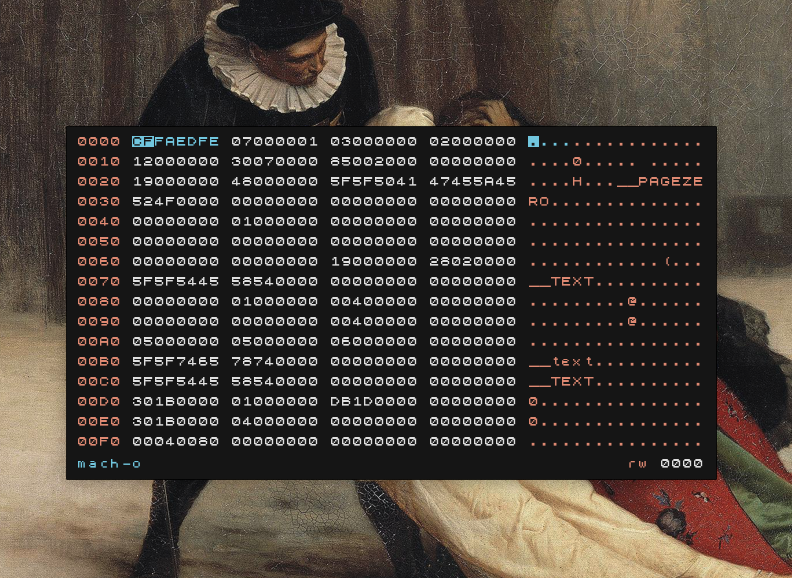
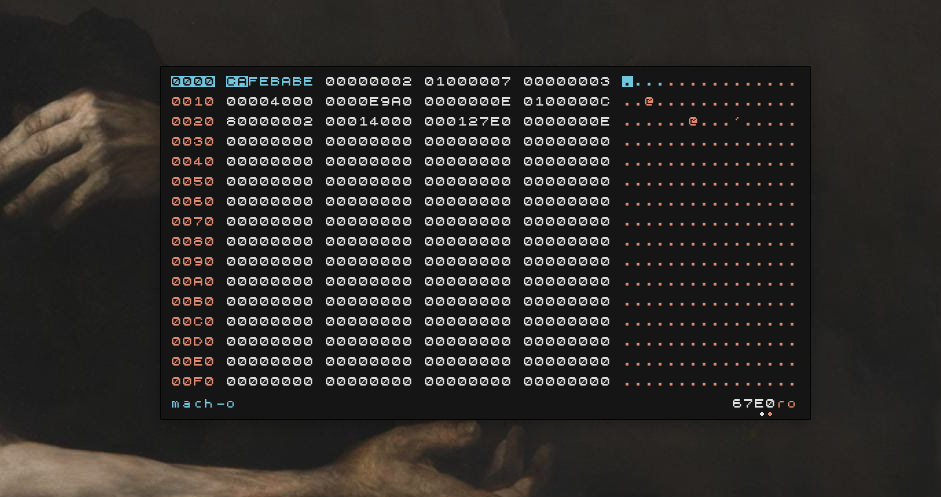
Layout work
* Offset column fix for > 0xffff representation
* Offset column now shows the current offset
* Info bar shows size of file and navigation dots

Misc:
* Added dmg magic
* Updated screenshot

diff --git a/main.c b/main.c
@@ -84,6 +84,7 @@ static void quit(int code, const char *m);
 static void copy_bytes(int size);
 static void mouse_set_cursor(int x, int y);
 static void grab_input(char c);
+static void draw_bitmap(char *s, int x, int y, unsigned int f);
 static void draw_background(void);
 static void draw_text(char *s, int x, int y, unsigned int color);
 static void draw_cursor(int x, int y, unsigned int b, unsigned int f, int size);
@@ -124,7 +125,9 @@ static long input_to_long(char *s) {
   return r;
 }
 static void toasciihex(unsigned char s, char *d) { snprintf(d, 3, "%02X", s); }
-static void off_toasciihex(int off, char *d) { snprintf(d, 5,"%04X", off); }
+static void off_toasciihex(int off, char *d) {
+  snprintf(d, 5,"%04X", off & 0xffff);
+}
 static char toprintable(char s) { return (s < 0x20 || s > 0x7e) ? '.' : s; }
 static void go(long off)
 {
@@ -315,17 +318,24 @@ static void draw_infobar(void)
 
 
   // print doc info
-  char offstr[5];
-  long offset = doc.fpos + win.curpos;
-  draw_text((doc.ro ? "ro" : "rw"), win.infobar.w-(win.font_width*6),
+  char fsize[5];
+  long nsize = doc.fsize;
+  draw_text((doc.ro ? "ro" : "rw"), win.infobar.w-win.font_width,
     win.infobar.y, theme.ngcolor);
-  off_toasciihex(offset, offstr);
-  draw_text(offstr, win.infobar.w-(win.font_width*3), win.infobar.y,
+  off_toasciihex(nsize, fsize);
+  draw_text(fsize, win.infobar.w - win.font_width*5, win.infobar.y,
     theme.fgcolor);
-  for (int i = 0;offset > 0xffff; offset -= 0xffff, i++) {
+  for (int i = 0;nsize > 0xffff; nsize -= 0xffff, i++) {
+    int x = win.infobar.x + win.infobar.w - win.font_width - sizeof(dot)*i;
+    if (x < win.font_width)
+      break;
     draw_bitmap(dot,
-      win.infobar.x + win.infobar.w - win.font_width - sizeof(dot)*i,
-      win.infobar.y + win.font_width, theme.ngcolor);
+      win.infobar.x + win.infobar.w - win.font_width*3 - sizeof(dot)*i,
+      win.infobar.y + win.font_width,
+      (
+        (nsize == doc.fsize && win.curpos == 0) ||
+        doc.fpos + win.curpos > 0xffff * i
+      ) ? theme.ngcolor : theme.fgcolor);
   }
 }
 
@@ -340,7 +350,6 @@ static void draw_offsetcol(void)
   long cpos = doc.fpos + win.curpos;
   for (int col = 0;pos != posend; col++, pos+=(win.colsize)) {
     char offstr[5];
-    off_toasciihex(pos, offstr);
 
     if (col > 0) posy += win.font_height * 2;
     if (cpos-(cpos%win.colsize) == pos) {
@@ -350,8 +359,10 @@ static void draw_offsetcol(void)
       } else {
         draw_cursor(posx, posy-1, theme.ngcolor, theme.bgcolor, 4);
       }
+      off_toasciihex(doc.fpos + win.curpos, offstr);
       draw_text(offstr, posx, posy, theme.bgcolor);
     } else {
+      off_toasciihex(pos, offstr);
       draw_text(offstr, posx, posy, theme.ngcolor);
     }
   }

diff --git a/magic.h b/magic.h
@@ -73,6 +73,7 @@ static magic magics[] = {
   {"mach-o", "\xFE\xED\xFA\xCF", NULL, 4, 0, 0x1000},
   {"flac","\x66\x4C\x61\x43", NULL, 4, 0, 0},
   {"dmg", "koly", NULL, 4, 0, 0},
+  {"dmg", "\x78\x01\xED\xD0", NULL, 4, 0, 0},
   {"pa30", "\x50\x41\x33\x30", NULL, 4, 0, 0},
   {"pcap", "\xA1\xB2\xC3\xD4", NULL, 4, 0, 0},
   {"pcap", "\xD4\xC3\xB2\xA1", NULL, 4, 0, 0},
